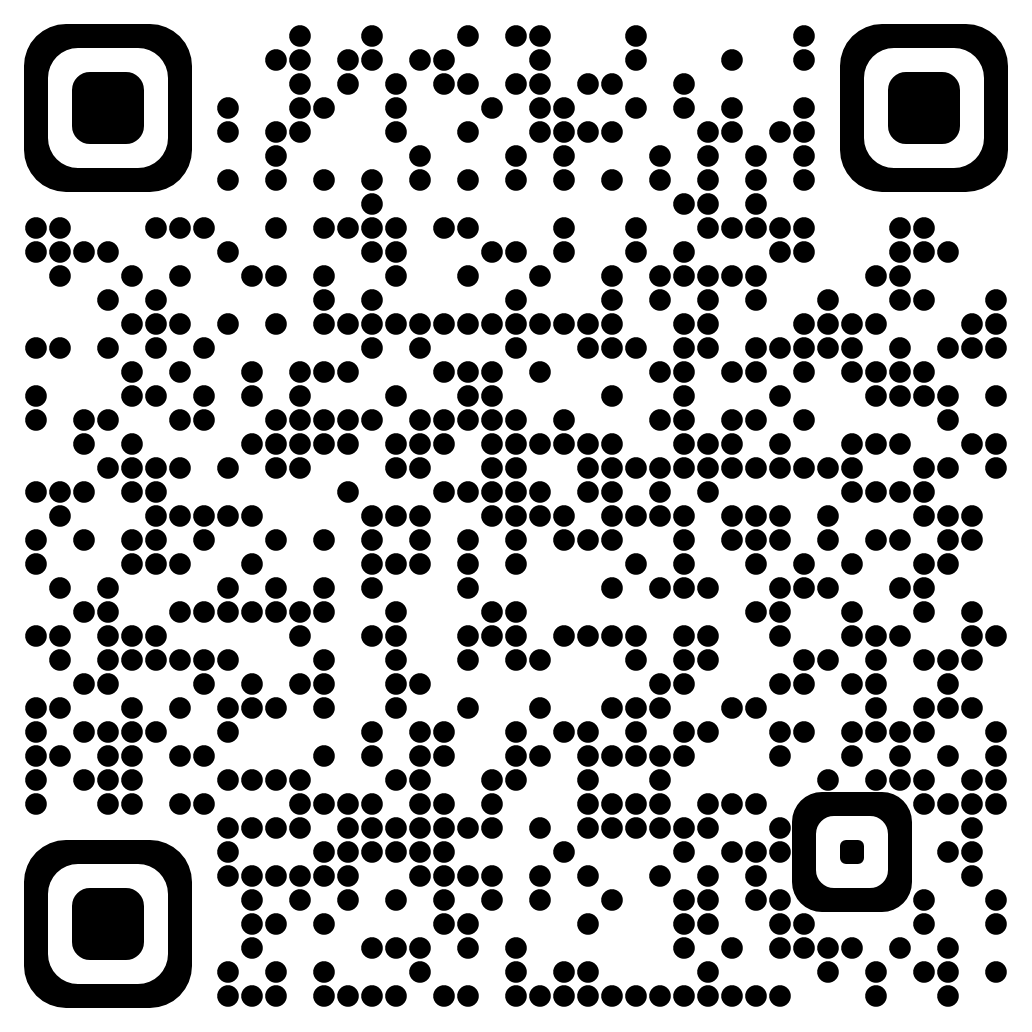
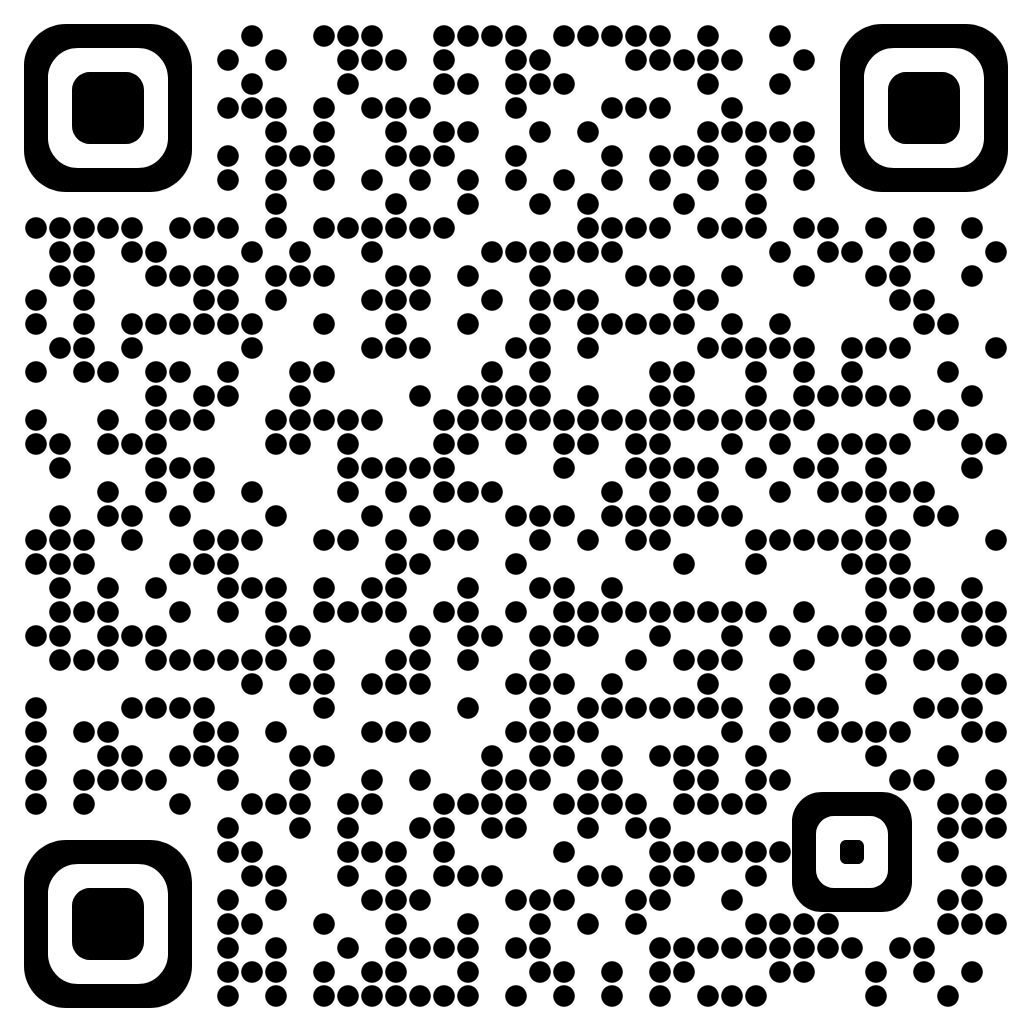
fix varie

diff --git a/pages/_app.tsx b/pages/_app.tsx
@@ -1,4 +1,5 @@
 import type { AppProps } from 'next/app'
+import Head from 'next/head'
 import { ThemeProvider } from 'styled-components'
 import GlobalStyle from '../styles/GlobalStyles'
 import themeGetter, { LIGHT } from '../styles/themeGetter'
@@ -7,10 +8,15 @@ function MyApp({ Component, pageProps }: AppProps) {
   let mode = LIGHT 
   const theme = themeGetter(mode)
   return (
-    <ThemeProvider theme={theme}>
-      <GlobalStyle />
-      <Component {...pageProps} />
-    </ThemeProvider>
+    <>
+    <Head>
+      <link rel='shortcut icon' href='/img/logonoscritta.png' />
+    </Head>
+      <ThemeProvider theme={theme}>
+        <GlobalStyle />
+        <Component {...pageProps} />
+      </ThemeProvider>
+    </>
     )
 }
 

diff --git a/pages/index.tsx b/pages/index.tsx
@@ -1,13 +1,21 @@
 import type { NextPage } from 'next'
 import Head from 'next/head'
+import { useEffect, useState } from 'react'
 import Contact from '../components/Home/Contact'
 import Hero from '../components/Home/Hero'
 import HowItWork from '../components/Home/HowItWork'
 import Manifest from '../components/Home/Manifest'
 import WhyUs from '../components/Home/WhyUs'
+import Preloader from '../kit/Preloader'
 import Layout from '../Layout'
 
 const Home: NextPage = () => {
+  const [isRender, setIsRender] = useState<boolean>(false)
+
+  useEffect(() => {
+    setIsRender(true)
+  }, [])
+  if(!isRender) return <Preloader />
   return (
     <>
     <Layout>

diff --git a/components/shared/Footer/config.ts b/components/shared/Footer/config.ts
@@ -2,6 +2,6 @@ import { IconInstagram, IconMail, IconWhatsapp } from '../../../kit/Icons'
 
 export const socialsFooterCofig = [
   {icon:IconInstagram, link:'https://instagram.com/start2rentmanagement?igshid=YmMyMTA2M2Y=',id:1},
-  {icon:IconWhatsapp, link:'https://wa.me/3881839774?text=Ciao%20Start2Rent,%20mi%20piacerebbe%20ricevere%20maggiori%20informazioni!',id:2},
+  {icon:IconWhatsapp, link:'https://wa.me/+393881839774?text=Ciao%20Start2Rent,%20mi%20piacerebbe%20ricevere%20maggiori%20informazioni!',id:2},
   {icon:IconMail, link:'mailto:info@start2rent.com', id:3},
 ]

diff --git a/components/shared/Footer/index.tsx b/components/shared/Footer/index.tsx
@@ -52,7 +52,7 @@ const Footer:React.FC<NavbarI> = ({links}) => {
           </Wrapper>
         </Flex>
         <Flex justify='center' margin='10px 0'>
-          <Paragraph size='sm'align='center'>{`&copy; Copyright - start2rent ${year}`}</Paragraph>
+          <Paragraph size='sm'align='center'>&copy;{` Copyright - start2rent ${year}`}</Paragraph>
         </Flex>
       </Container>
     </FooterWrapper>

diff --git a/components/Home/config.ts b/components/Home/config.ts
@@ -61,7 +61,7 @@ export const socialConfig = [
     name: 'WhatsApp', 
     icon:IconWhatsapp, 
     qrCode:WhatsAppQr, 
-    link:'https://wa.me/3881839774?text=Ciao%20Start2Rent,%20mi%20piacerebbe%20ricevere%20maggiori%20informazioni!', 
+    link:'https://wa.me/+393881839774?text=Ciao%20Start2Rent,%20mi%20piacerebbe%20ricevere%20maggiori%20informazioni!', 
   },
   {
     name: 'Instagram', 

diff --git a/kit/Preloader/index.tsx b/kit/Preloader/index.tsx
@@ -1,0 +1,14 @@
+import Image from 'next/image'
+import React, { FC } from 'react'
+import { PreloadPage } from './styles'
+import LogoLoading from '../../assets/logo/logo-h.png'
+
+const Preloader:FC = () => {
+  return (
+    <PreloadPage>
+      <Image src={LogoLoading} height={100} width={80} />
+    </PreloadPage>
+  )
+}
+
+export default Preloader

diff --git a/kit/Preloader/styles.ts b/kit/Preloader/styles.ts
@@ -1,0 +1,14 @@
+import styled from "styled-components";
+
+export const PreloadPage = styled.div`
+  width:100%;
+  height:100vh;
+  position:absolute;
+  top:0;
+  bottom:0;
+  left:0;
+  right:0;
+  display:flex;
+  align-items:center;
+  justify-content:center
+`
